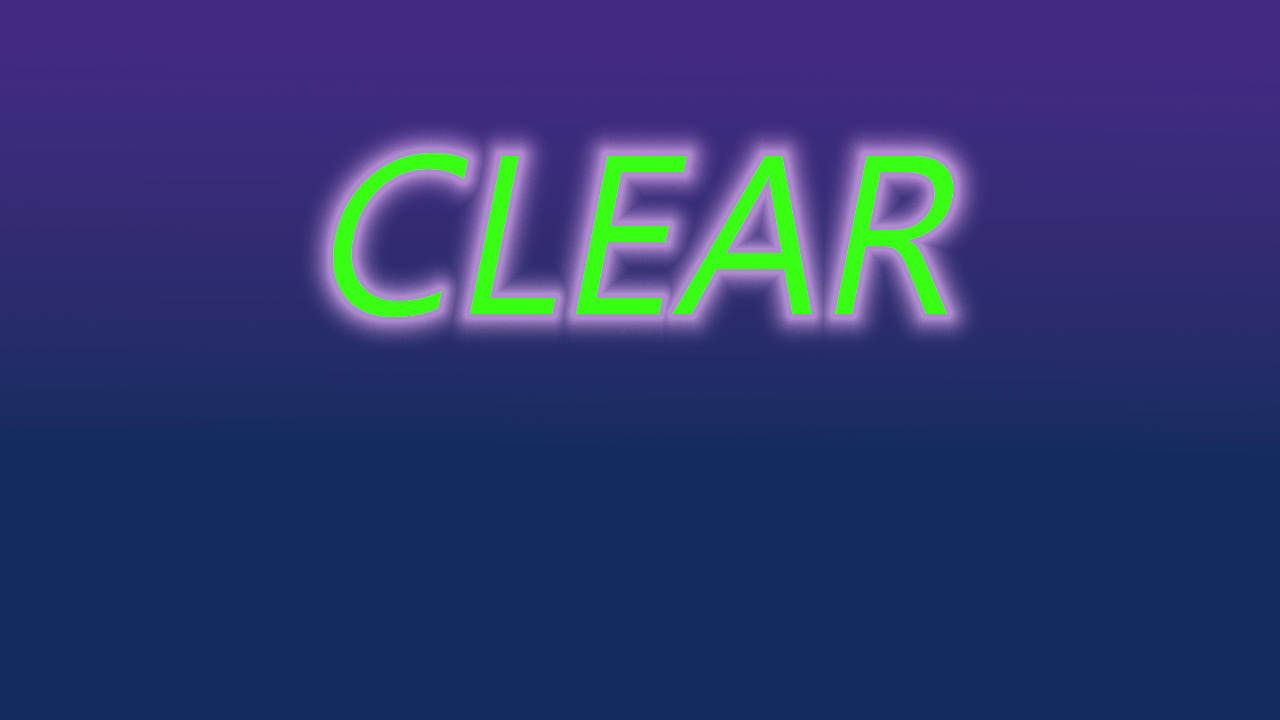
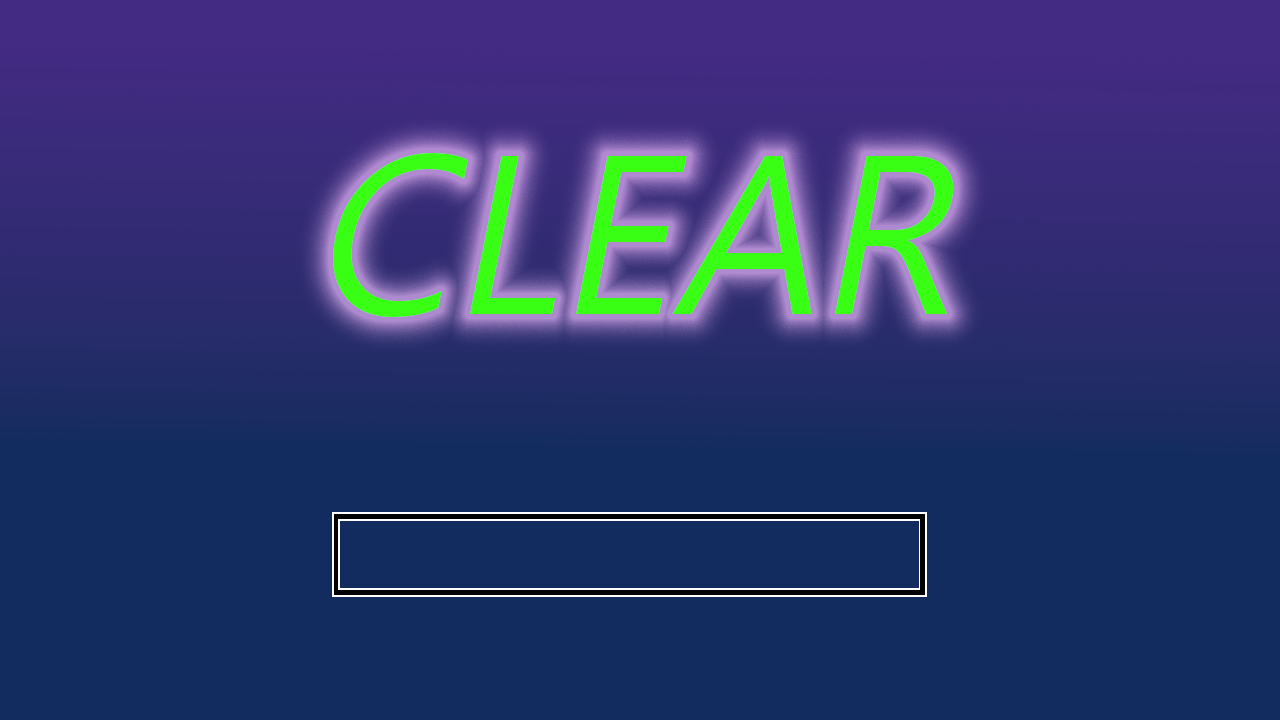
a

Changed region(s): [[0.25, 0.7028, 0.75, 0.8556]]

diff --git a/projects/GameOverScene.cpp b/projects/GameOverScene.cpp
@@ -15,12 +15,18 @@ void GameOverScene::Initialize()
 	spritePlatform_ = SpritePlatform::GetInstance();
 	modelPlatform_ = ModelPlatform::GetInstance();
 
-	over1Sprite_ = TextureManager::GetInstance()->Load("./resources/screen/over.png");
+	over1Sprite_ = TextureManager::GetInstance()->Load("./resources/screen/over1.png");
+	over2Sprite_ = TextureManager::GetInstance()->Load("./resources/screen/over2.png");
+
 	sprite1_ = std::make_unique<Sprite>();
 	sprite1_->Initialize(over1Sprite_, spritePlatform_);
 	sprite1_->SetPosition({ 0.0f, 0.0f });
 
+	sprite2_ = std::make_unique<Sprite>();
+	sprite2_->Initialize(over2Sprite_, spritePlatform_);
+	sprite2_->SetPosition({ 0.0f, 0.0f });
 
+	time = 40;
 }
 
 void GameOverScene::Update()
@@ -37,7 +43,16 @@ void GameOverScene::Draw()
 {
 
 	spritePlatform_->PreDraw();
-	sprite1_->Draw();
+	time--;
+	if (time <= 40) {
+		sprite1_->Draw();
+		if (time <= 20) {
+			sprite2_->Draw();
+		}
+	}
+	if (time == 0) {
+		time = 40;
+	}
 
 }
 

diff --git a/projects/Game/scene/TitleScene.cpp b/projects/Game/scene/TitleScene.cpp
@@ -23,9 +23,17 @@ void TitleScene::Initialize()
 	sprite_->SetPosition({ 100.0f, 100.0f });
 	*/
 	title1Sprite_ = TextureManager::GetInstance()->Load("./resources/screen/title1.png");
+	title2Sprite_ = TextureManager::GetInstance()->Load("./resources/screen/title2.png");
+
 	sprite1_ = std::make_unique<Sprite>();
 	sprite1_->Initialize(title1Sprite_, spritePlatform_);
 	sprite1_->SetPosition({ 0.0f, 0.0f });
+
+	sprite2_ = std::make_unique<Sprite>();
+	sprite2_->Initialize(title2Sprite_, spritePlatform_);
+	sprite2_->SetPosition({ 0.0f, 0.0f });
+
+	time = 40;
 }
 
 void TitleScene::Update()
@@ -51,7 +59,16 @@ void TitleScene::Draw()
 
 	//Spriteの描画準備。Spriteの描画に共通のグラフィックスコマンドを積む
 	spritePlatform_->PreDraw();
-	sprite1_->Draw();
+	time--;
+	if (time <= 40) {
+		sprite1_->Draw();
+		if (time <= 20) {
+			sprite2_->Draw();
+		}
+	}
+	if (time == 0) {
+		time = 40;
+	}
 
 }
 

diff --git a/projects/GameClearScene.cpp b/projects/GameClearScene.cpp
@@ -16,9 +16,15 @@ void GameClearScene::Initialize()
 	modelPlatform_ = ModelPlatform::GetInstance();
 
 	clear1Sprite_ = TextureManager::GetInstance()->Load("./resources/screen/clear1.png");
+	clear2Sprite_ = TextureManager::GetInstance()->Load("./resources/screen/clear2.png");
+
 	sprite1_ = std::make_unique<Sprite>();
 	sprite1_->Initialize(clear1Sprite_, spritePlatform_);
 	sprite1_->SetPosition({ 0.0f, 0.0f });
+
+	sprite2_ = std::make_unique<Sprite>();
+	sprite2_->Initialize(clear2Sprite_, spritePlatform_);
+	sprite2_->SetPosition({ 0.0f, 0.0f });
 
 }
 
@@ -34,7 +40,16 @@ void GameClearScene::Update()
 void GameClearScene::Draw()
 {
 	spritePlatform_->PreDraw();
-	sprite1_->Draw();
+	time--;
+	if (time <= 40) {
+		sprite1_->Draw();
+		if (time <= 20) {
+			sprite2_->Draw();
+		}
+	}
+	if (time == 0) {
+		time = 40;
+	}
 
 }
 

diff --git a/projects/Game/scene/SceneFactory.cpp b/projects/Game/scene/SceneFactory.cpp
@@ -2,6 +2,8 @@
 #include "TitleScene.h"
 #include "GameScene.h"
 #include "TutorialScene.h"
+#include "GameClearScene.h"
+#include "GameOverScene.h"
 
 BaseScene* SceneFactory::CreateScene(const std::string& sceneName)
 {
@@ -17,6 +19,12 @@ BaseScene* SceneFactory::CreateScene(const std::string& sceneName)
 	else if (sceneName == "Tutorial") {
 		newScene = new TutorialScene();
 	}
+	//else if (sceneName == "GameClear") {
+	//	newScene = new GameClearScene();
+	//}
+	//else if (sceneName == "GameOver") {
+	//	newScene = new GameOverScene();
+	//}
 
 	return newScene;
 }

diff --git a/projects/Game/scene/TitleScene.h b/projects/Game/scene/TitleScene.h
@@ -36,6 +36,12 @@ private:
 	uint32_t title1Sprite_ = 0;
 
 	std::unique_ptr<Sprite> sprite1_ = nullptr;
+
+	uint32_t title2Sprite_ = 0;
+
+	std::unique_ptr<Sprite> sprite2_ = nullptr;
+
+	int time = 40;
 	
 };
 

diff --git a/projects/GameClearScene.h b/projects/GameClearScene.h
@@ -37,7 +37,10 @@ private:
 
 	std::unique_ptr<Sprite> sprite1_ = nullptr;
 
+	uint32_t clear2Sprite_ = 0;
 
+	std::unique_ptr<Sprite> sprite2_ = nullptr;
 
+	int time = 40;
 };
 

diff --git a/projects/GameOverScene.h b/projects/GameOverScene.h
@@ -37,6 +37,10 @@ private:
 
 	std::unique_ptr<Sprite> sprite1_ = nullptr;
 
+	uint32_t over2Sprite_ = 0;
 
+	std::unique_ptr<Sprite> sprite2_ = nullptr;
+
+	int time = 40;
 };
 
